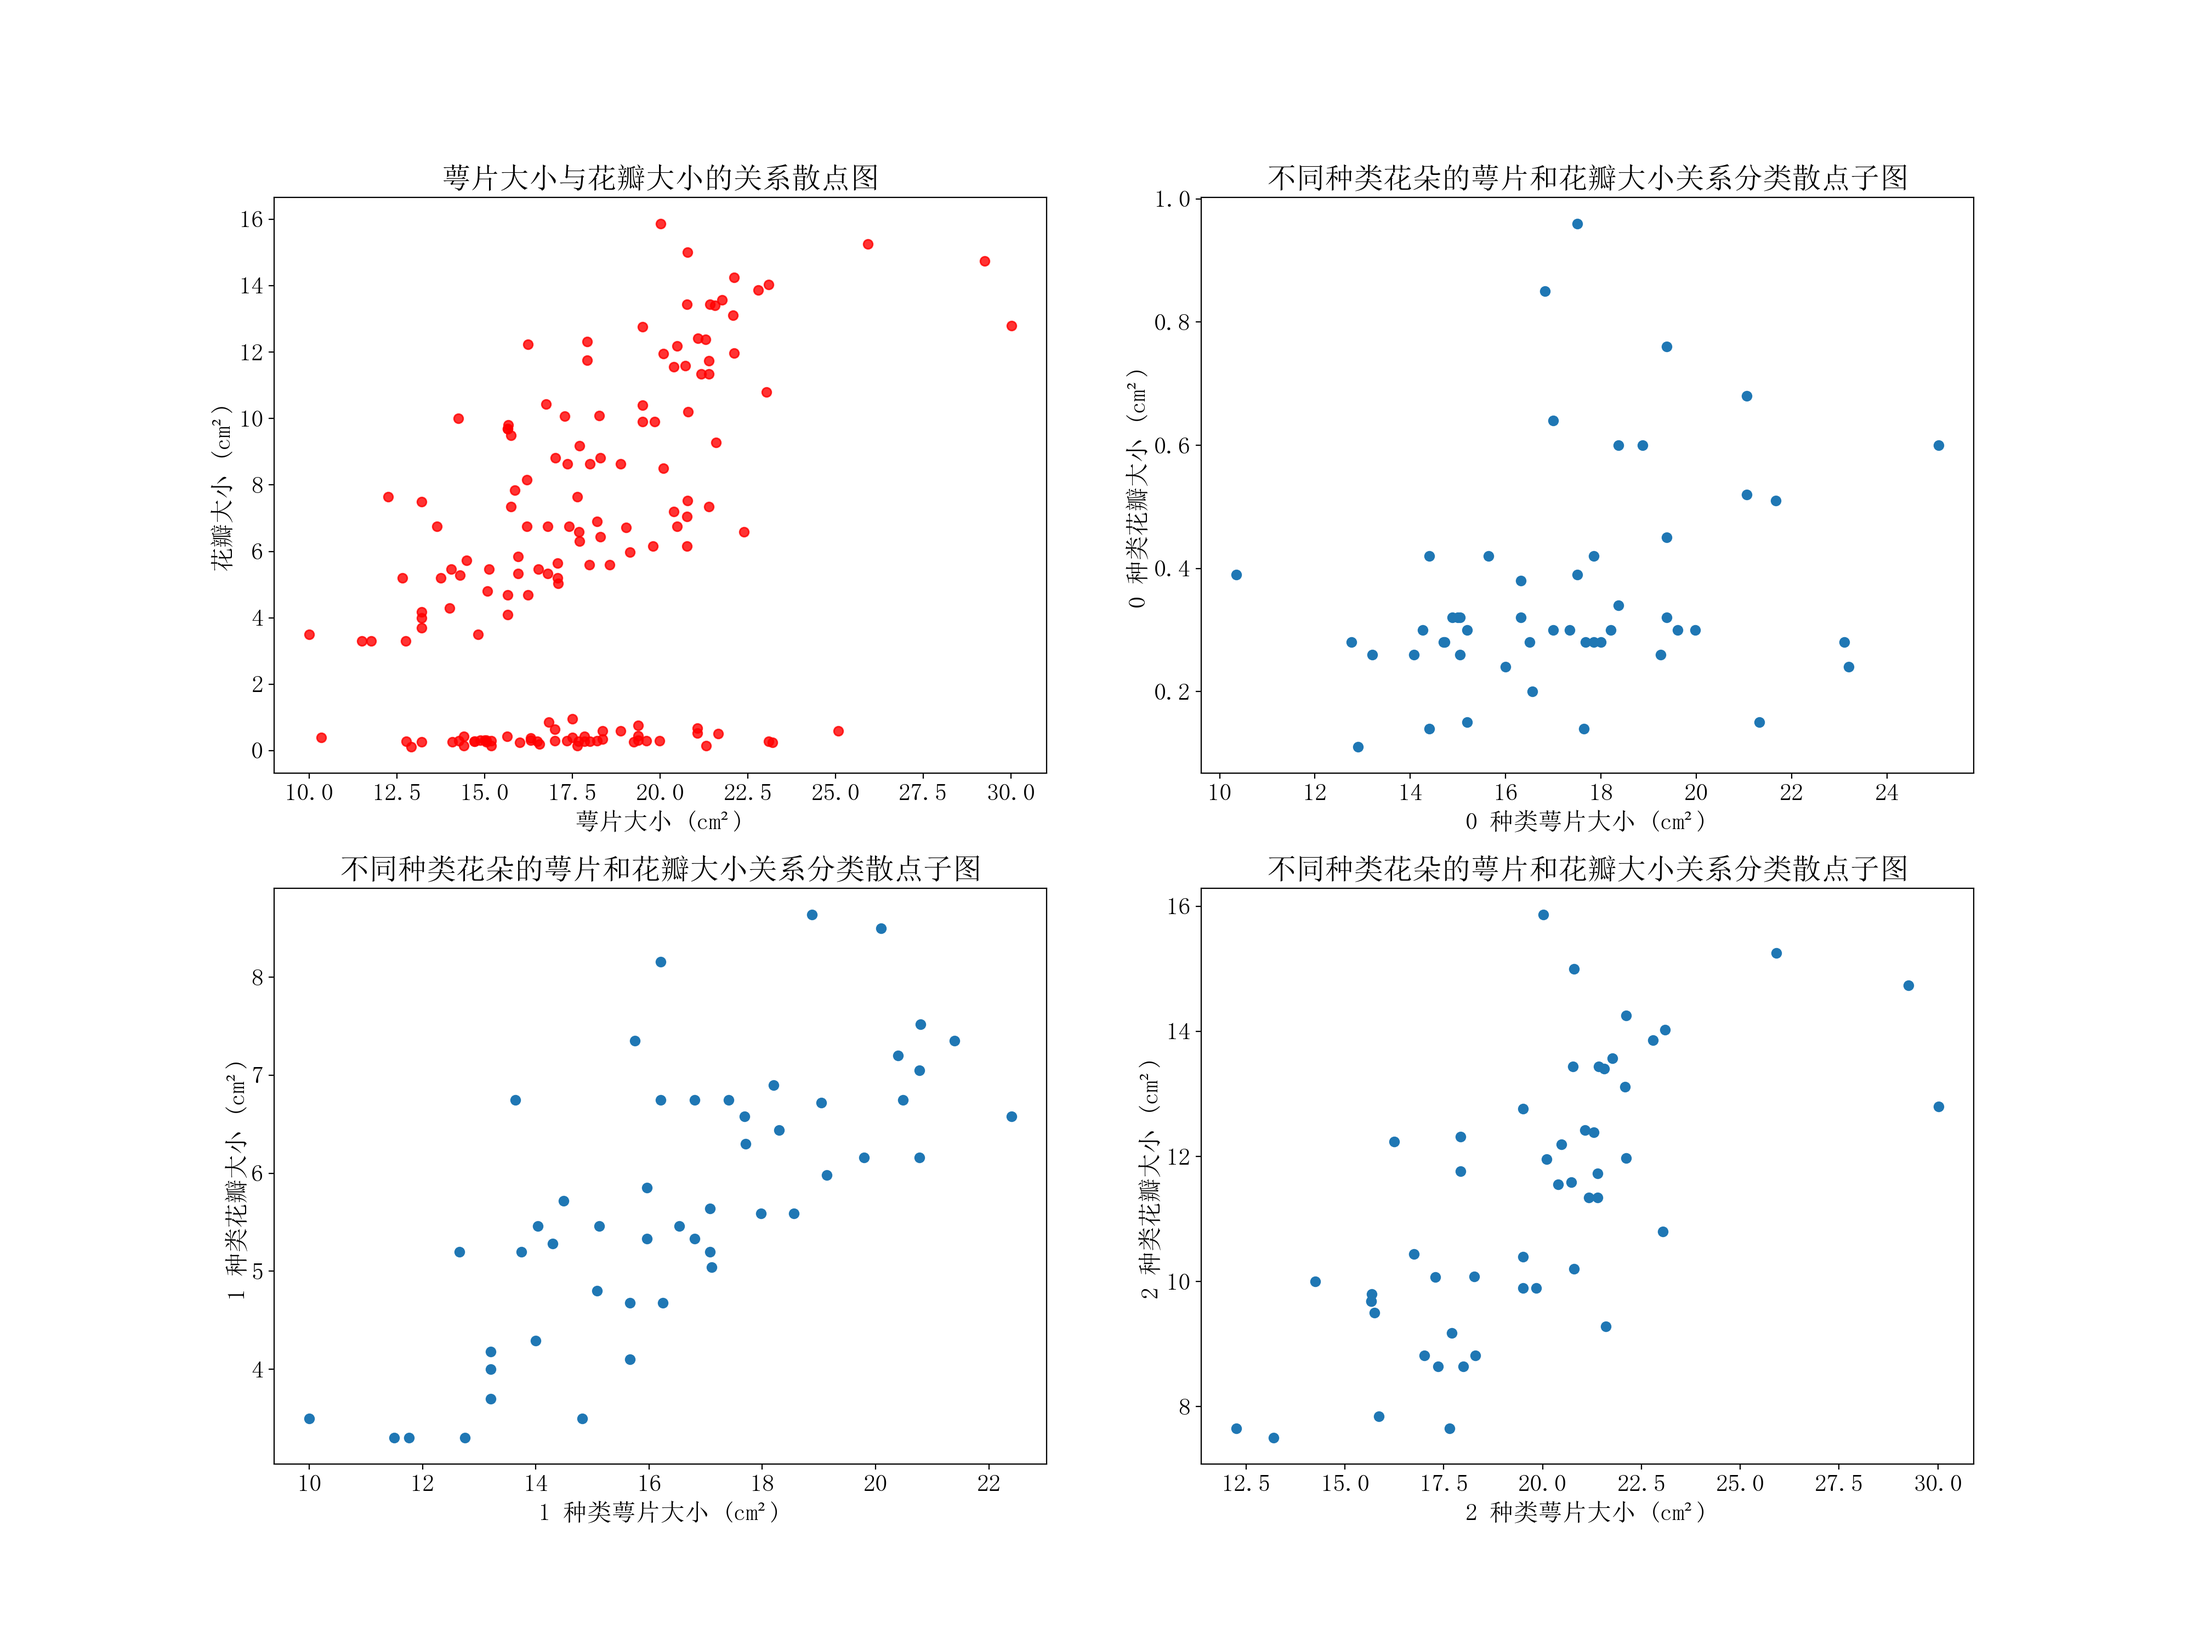
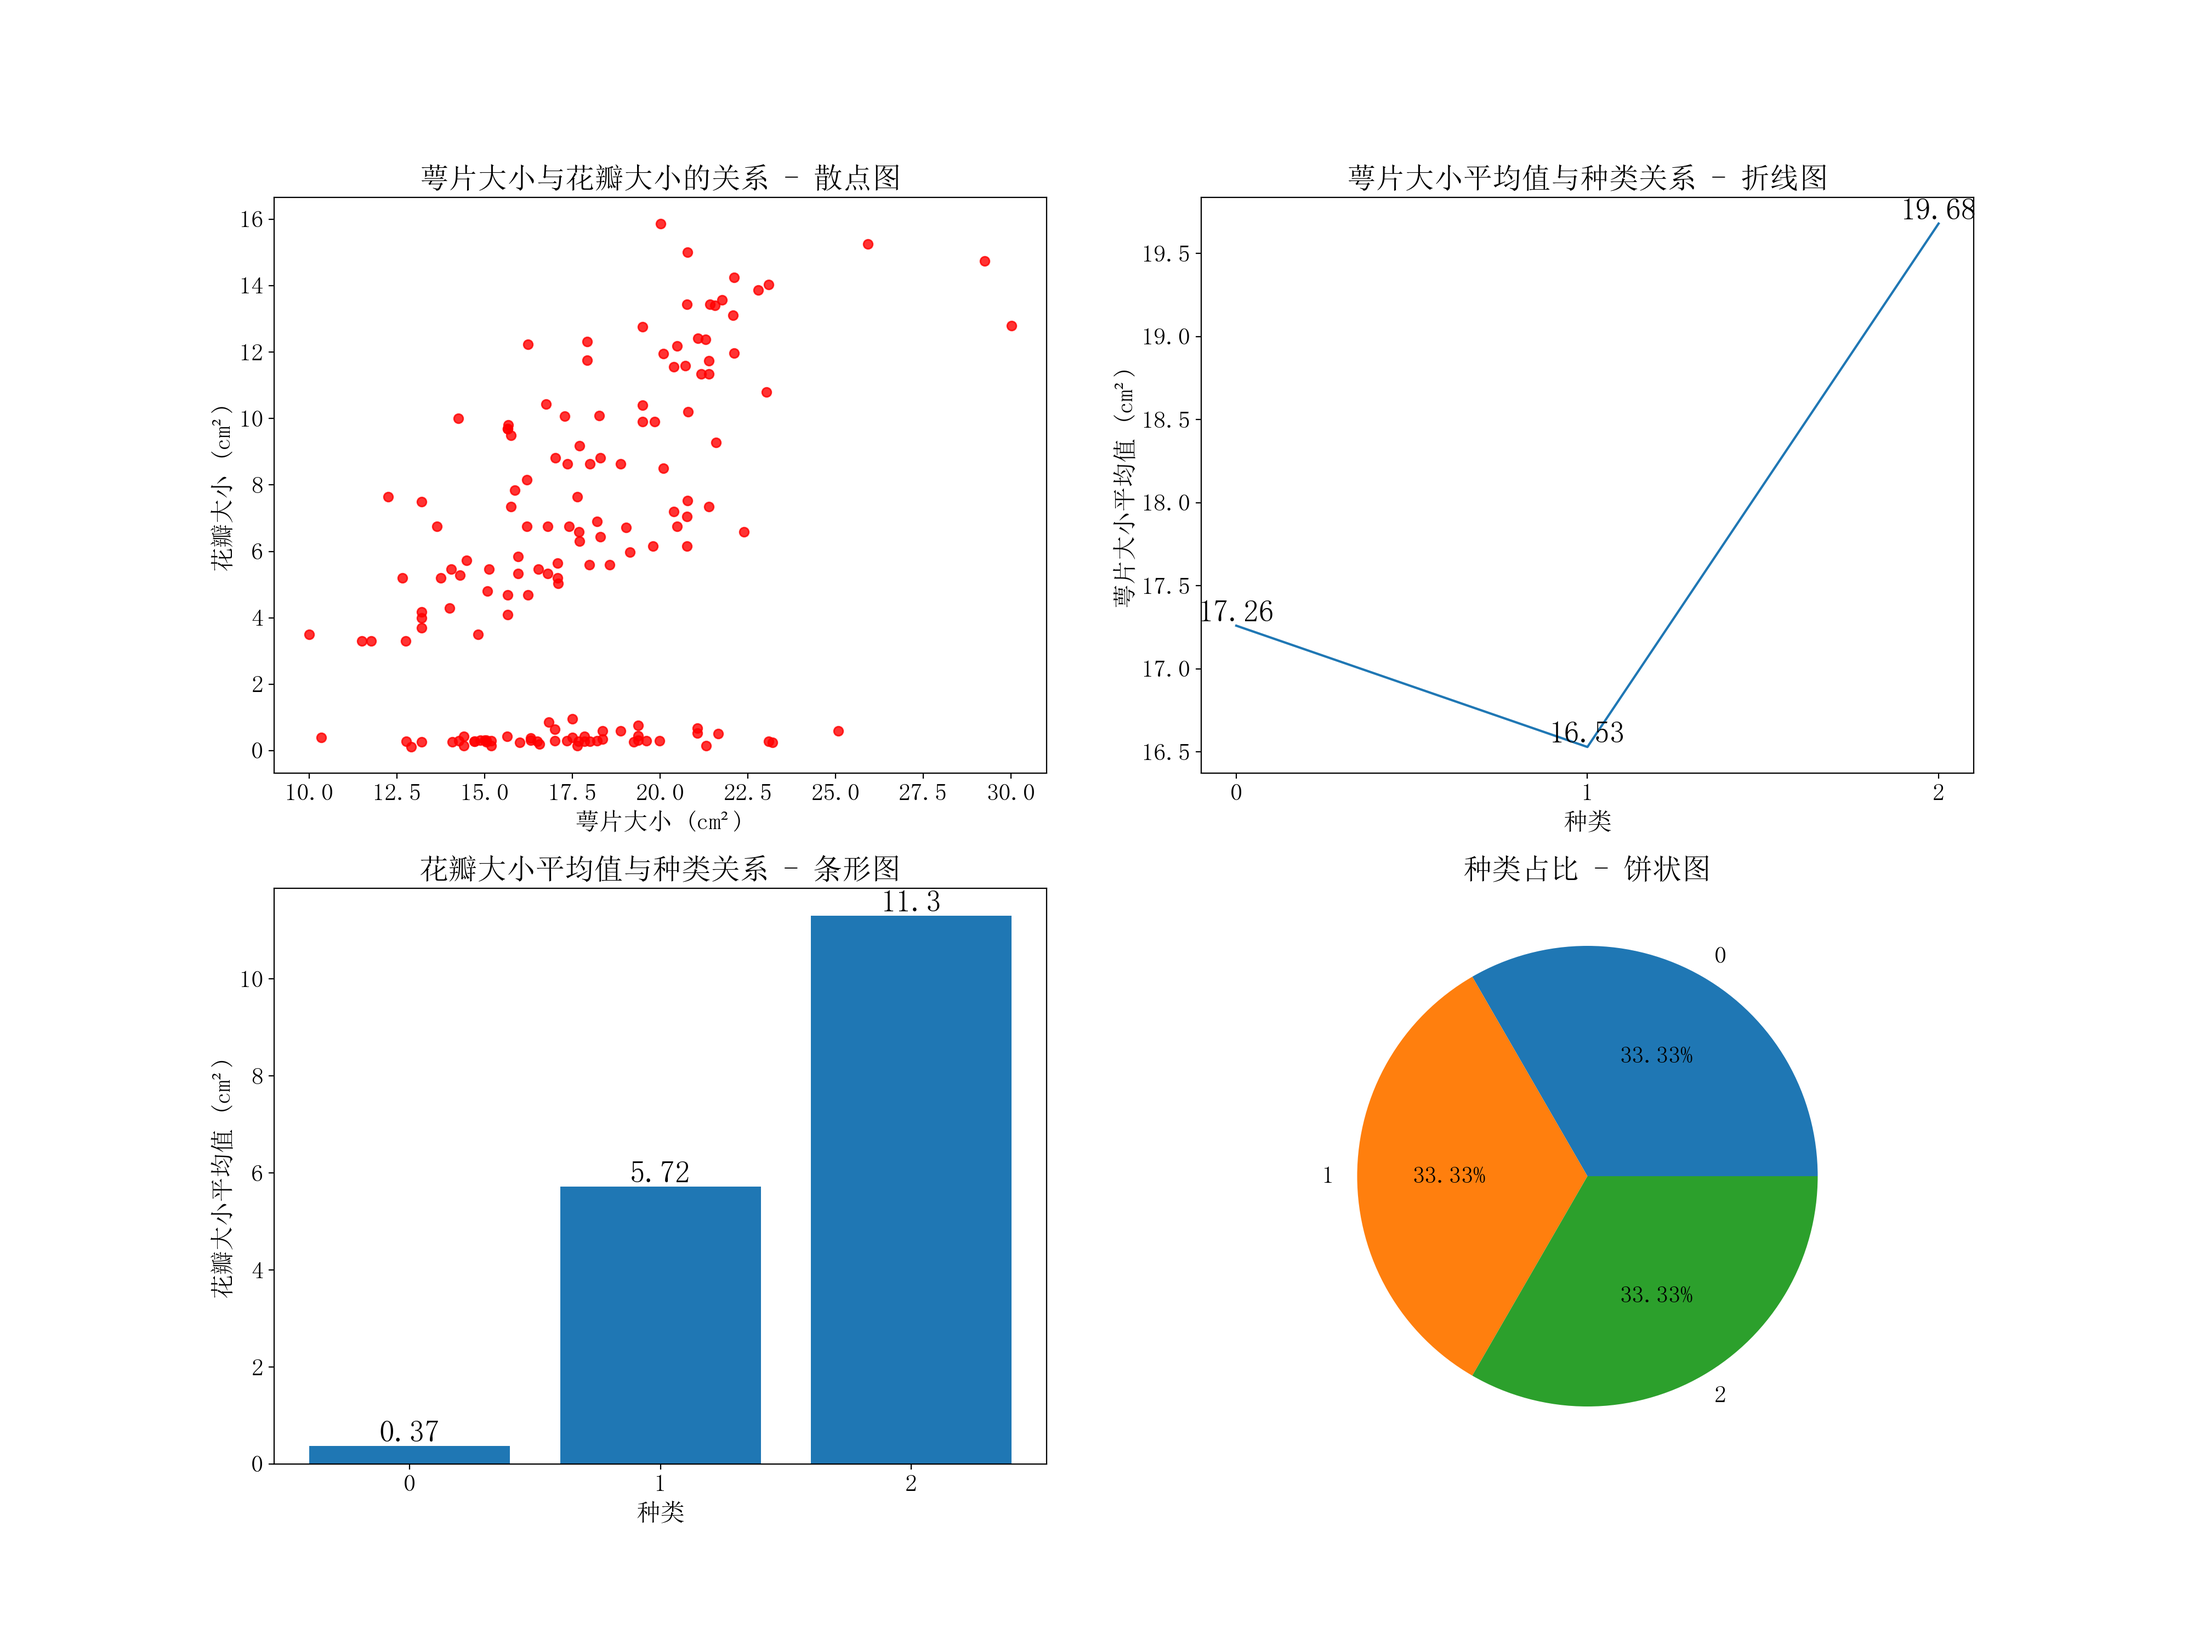
per request, re-do 4#, plus result pic

diff --git a/main.py b/main.py
@@ -69,6 +69,18 @@ pl.xlabel("种类")
 pl.ylabel('花瓣大小平均值 (cm²)')
 pos += 1
 
+# 4号饼状图
+sum_pie = [0, 0, 0]
+
+for species in data['species']:
+    sum_pie[species] += 1
+
+pl.subplot(2, 2, pos)
+pl.pie(sum_pie,
+       labels=[0, 1, 2],
+       autopct='%.2f%%'
+       )
+pl.title("种类占比 - 饼状图")
 
 pl.savefig("Figure.png", dpi=200)
 pl.show()
